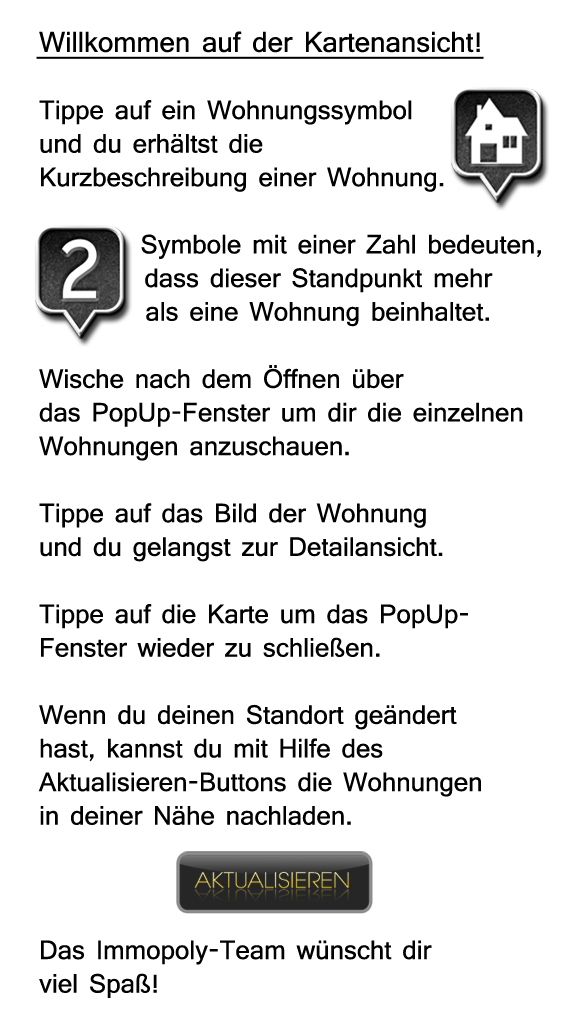
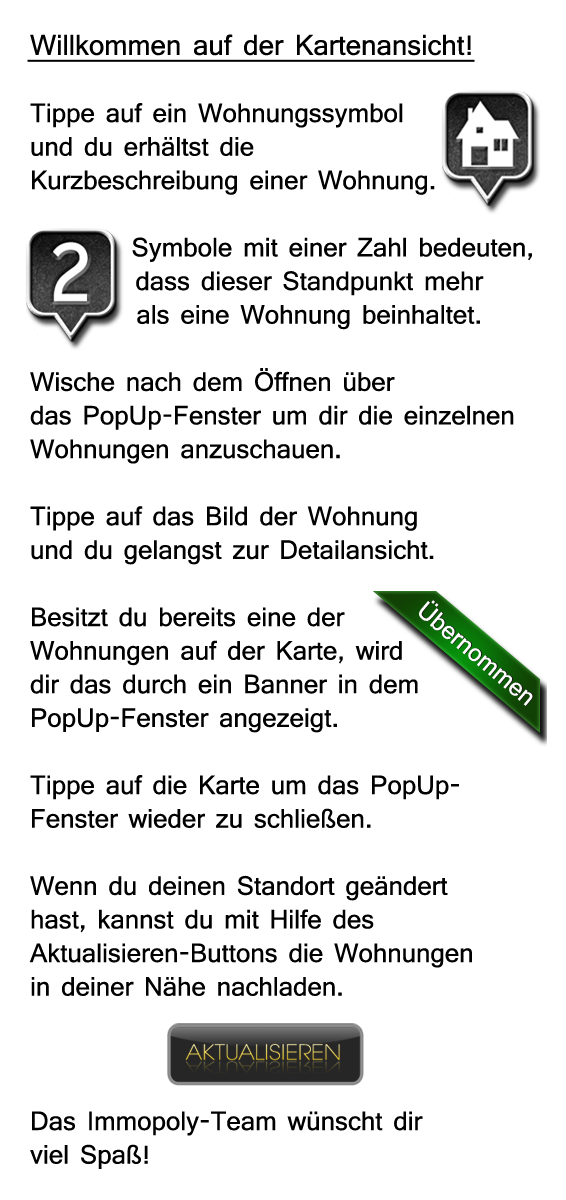
Refraktor übernommene Wohnungen
- Annotation werden nicht mehr anders angezeigt
- Hilfetext wurde entsprechend geändert
- Zeit ist jetzt auf MEZ

Changed region(s): [[0.03, 0.0311, 0.9912, 0.9942]]

diff --git a/ImmopolyIPhone/ImmopolyIPhone/ImmopolyMapViewController.m b/ImmopolyIPhone/ImmopolyIPhone/ImmopolyMapViewController.m
@@ -28,7 +28,6 @@
 @synthesize selectedImmoScoutFlat;
 @synthesize isCalloutBubbleIn;
 @synthesize isOutInCall;
-@synthesize wasMapRefreshedAfterLogin;
 @synthesize showCalloutBubble;
 @synthesize selViewForHouseImage;
 @synthesize selViewForHouseImageInOut;
@@ -68,12 +67,6 @@
 #pragma mark - View lifecycle
 
 - (void)viewWillAppear:(BOOL)animated {  
-    
-    // refreshes the map after login one time, that the user can see his own flats
-    if([[ImmopolyManager instance] loginSuccessful] && !wasMapRefreshedAfterLogin) {
-        [self setWasMapRefreshedAfterLogin:YES];
-        [self refreshLocation];
-    }
     
     if (![self alreadyUsed]) {
        //Show first start text
@@ -247,11 +240,7 @@
             [annotationView addSubview:[self setLbNumberOfFlatsAtFlat:location]];
         }
         else {
-            if ([self checkOfOwnFlat:location]) {
-                imageView = [[[UIImageView alloc] initWithImage:[UIImage imageNamed:@"annotation_single_green.png"]] autorelease];
-            } else {
-                imageView = [[[UIImageView alloc] initWithImage:[UIImage imageNamed:@"annotation_single.png"]] autorelease];
-            }
+            imageView = [[[UIImageView alloc] initWithImage:[UIImage imageNamed:@"annotation_single.png"]] autorelease];
             imageView.center = CGPointMake(19, 24.5);
             [annotationView addSubview:imageView];
         }
@@ -290,11 +279,7 @@
         [annotationView addSubview:[self setLbNumberOfFlatsAtFlat:_flat]];
     }
     else {
-        if ([self checkOfOwnFlat:_flat]) {
-            imageView = [[[UIImageView alloc] initWithImage:[UIImage imageNamed:@"annotation_single_green.png"]] autorelease];
-        } else {
-            imageView = [[[UIImageView alloc] initWithImage:[UIImage imageNamed:@"annotation_single.png"]] autorelease];
-        }
+        imageView = [[[UIImageView alloc] initWithImage:[UIImage imageNamed:@"annotation_single.png"]] autorelease];
         imageView.center = CGPointMake(19, 24.5);
         [annotationView addSubview:imageView];
     }
@@ -302,7 +287,7 @@
 }
 
 - (BOOL)checkOfOwnFlat:(Flat *)_flat {    
-    if ([[ImmopolyManager instance] user] != NULL) {
+    if ([[[[ImmopolyManager instance] user] portfolio] count] != 0) {
         for (Flat *tempFlat in [[[ImmopolyManager instance] user] portfolio]) {
             if ([tempFlat exposeId] == [_flat exposeId]) {
                 return YES;

diff --git a/ImmopolyIPhone/ImmopolyIPhone/AppDelegate.m b/ImmopolyIPhone/ImmopolyIPhone/AppDelegate.m
@@ -23,6 +23,7 @@
 
 
 //HACK FOR 4.3
+/*
 @implementation CLLocationManager (TemporaryHack)
 
 - (void)hackLocationFix
@@ -38,6 +39,7 @@
 
 @end
 //STOP HACK FOR 4.3
+*/
 
 @implementation AppDelegate
 
@@ -221,6 +223,7 @@
 
 - (void)closeMyDelegateView {
     [self.tabBarController setSelectedIndex:2];
+    [[self tabBarController]centerClicked];
 }
 
 -(void) showLoginViewController {
@@ -275,7 +278,7 @@
         [[self tabBarController]centerClicked];
         [[ImmopolyManager instance]setLoginSuccessful:NO];
         [[[[ImmopolyManager instance]user]history]removeAllObjects];
-        [[[[ImmopolyManager instance]user]portfolio]removeAllObjects];
+        //[[[[ImmopolyManager instance]user]portfolio]removeAllObjects];
         [[self.tabBarController.viewControllers objectAtIndex:1]dismissModalViewControllerAnimated:NO];
         [[self.tabBarController.viewControllers objectAtIndex:2]dismissModalViewControllerAnimated:NO];
         ((HistoryViewController *) [[[self tabBarController]viewControllers]objectAtIndex:3]).loadingHistoryEntriesStart=10;

diff --git a/ImmopolyIPhone/ImmopolyIPhone/ImmopolyMapViewController.h b/ImmopolyIPhone/ImmopolyIPhone/ImmopolyMapViewController.h
@@ -44,7 +44,6 @@
     bool isCalloutBubbleIn;
     bool isOutInCall;
     bool showCalloutBubble;
-    bool wasMapRefreshedAfterLogin;
     int selectedExposeId;
     Flat *selectedImmoScoutFlat;
     MKAnnotationView *selViewForHouseImage;
@@ -73,7 +72,6 @@
 @property(nonatomic, assign) bool isCalloutBubbleIn;
 @property(nonatomic, assign) bool isOutInCall;
 @property(nonatomic, assign) bool showCalloutBubble;
-@property(nonatomic, assign) bool wasMapRefreshedAfterLogin;
 @property(nonatomic, retain) MKAnnotationView *selViewForHouseImage;
 @property(nonatomic, retain) MKAnnotationView *selViewForHouseImageInOut;
 @property(nonatomic, retain) IBOutlet AsynchronousImageView *asyncImageView;

diff --git a/ImmopolyIPhone/ImmopolyIPhone/HistoryViewController.m b/ImmopolyIPhone/ImmopolyIPhone/HistoryViewController.m
@@ -229,7 +229,7 @@
         
         // Convert string to date object
         NSDateFormatter *dateFormatter = [[NSDateFormatter alloc] init];
-        [dateFormatter setTimeZone:[NSTimeZone timeZoneWithAbbreviation:@"GMT"]];
+        [dateFormatter setTimeZone:[NSTimeZone timeZoneWithAbbreviation:@"MEZ"]];
         [dateFormatter setDateFormat:@"'am' dd.MM.yyyy 'um' HH:mm 'Uhr'"];
         
         long timeInterval = [historyEntry time]/1000; //1321922162430

diff --git a/ImmopolyIPhone/ImmopolyIPhone/PortfolioCell.m b/ImmopolyIPhone/ImmopolyIPhone/PortfolioCell.m
@@ -64,7 +64,7 @@
         
         // Convert long to date object
         NSDateFormatter *dateFormatter = [[NSDateFormatter alloc] init];
-        [dateFormatter setTimeZone:[NSTimeZone timeZoneWithAbbreviation:@"GMT"]];
+        [dateFormatter setTimeZone:[NSTimeZone timeZoneWithAbbreviation:@"MEZ"]];
         [dateFormatter setDateFormat:@"'Übernommen am:  \t\t' dd.MM.yyyy"];
         
         long timeInterval = [flat overtakeDate]/1000; //1321922162430

diff --git a/ImmopolyIPhone/ImmopolyIPhone/AbstractViewController.m b/ImmopolyIPhone/ImmopolyIPhone/AbstractViewController.m
@@ -115,7 +115,7 @@
         
         case INFO_MAP:
             helperTextImage = [[UIImageView alloc]initWithImage:[UIImage imageNamed:@"infotext_map"]];
-            helperTextImage.frame = CGRectMake(0, 0, 283, 515);    
+            helperTextImage.frame = CGRectMake(0, 0, 283, 600);    
         break;
             
         case INFO_PORTFOLIO:
